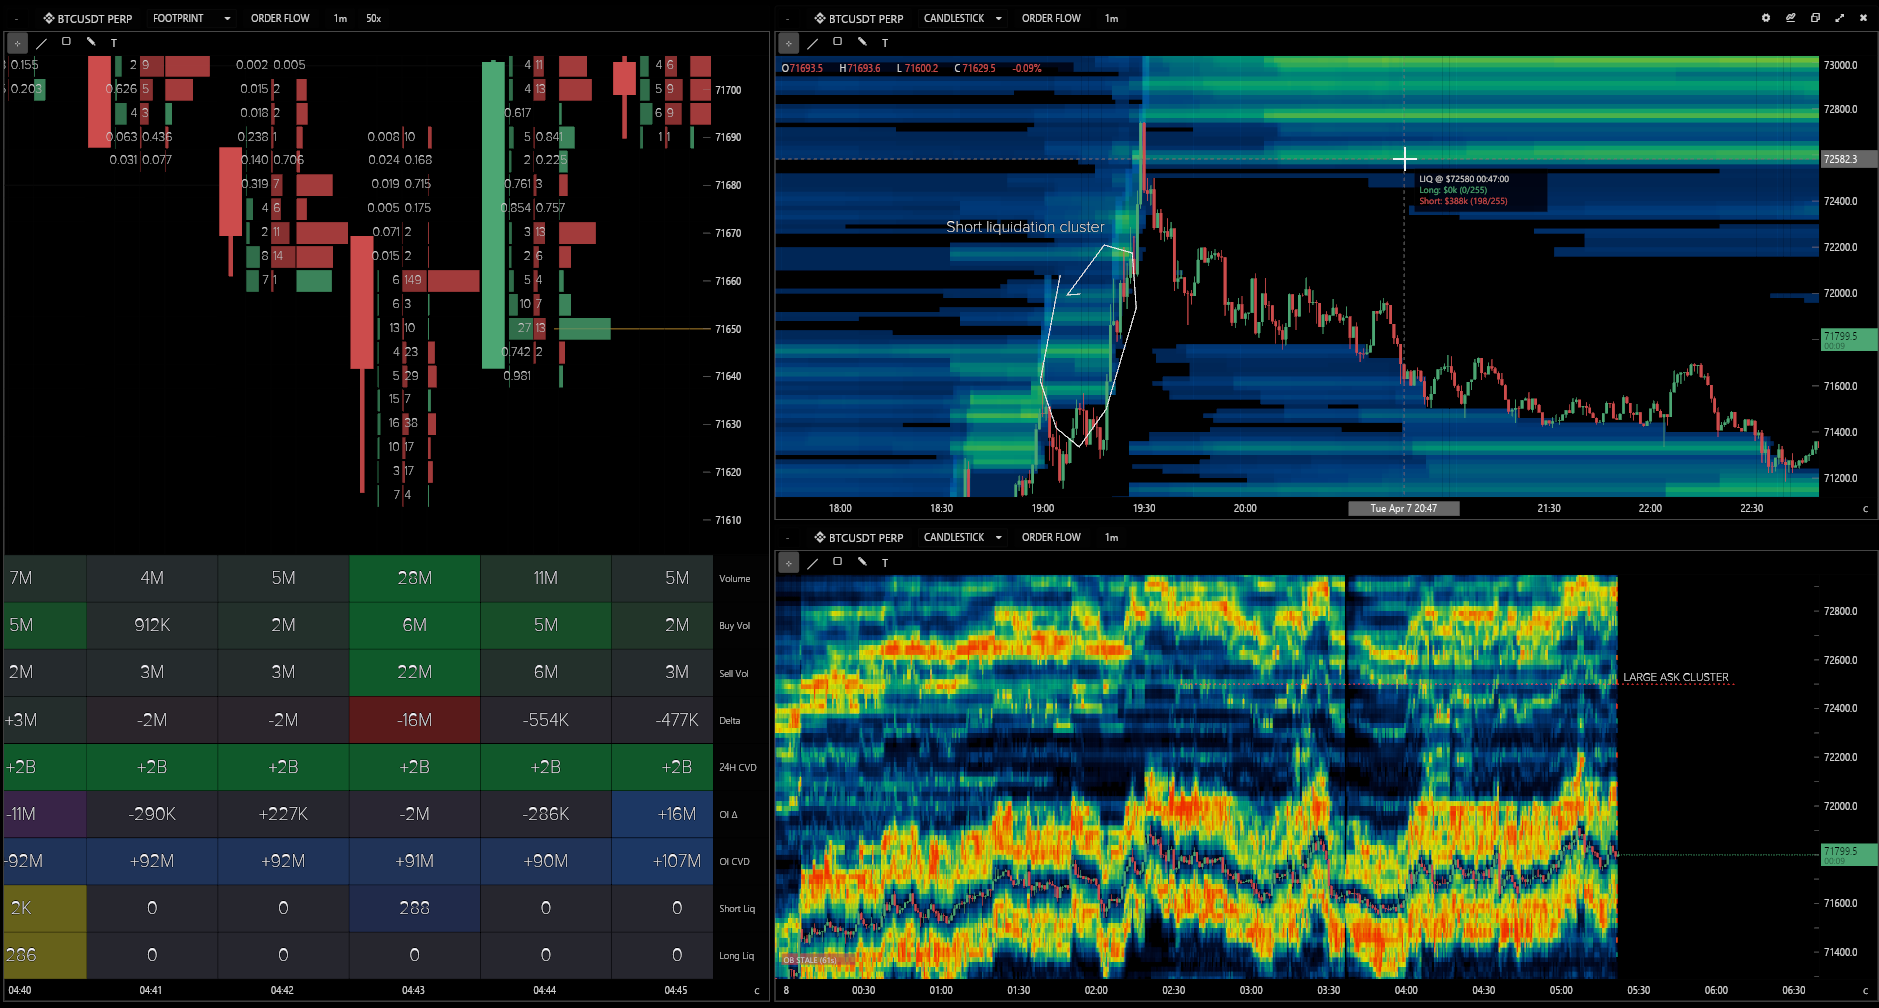
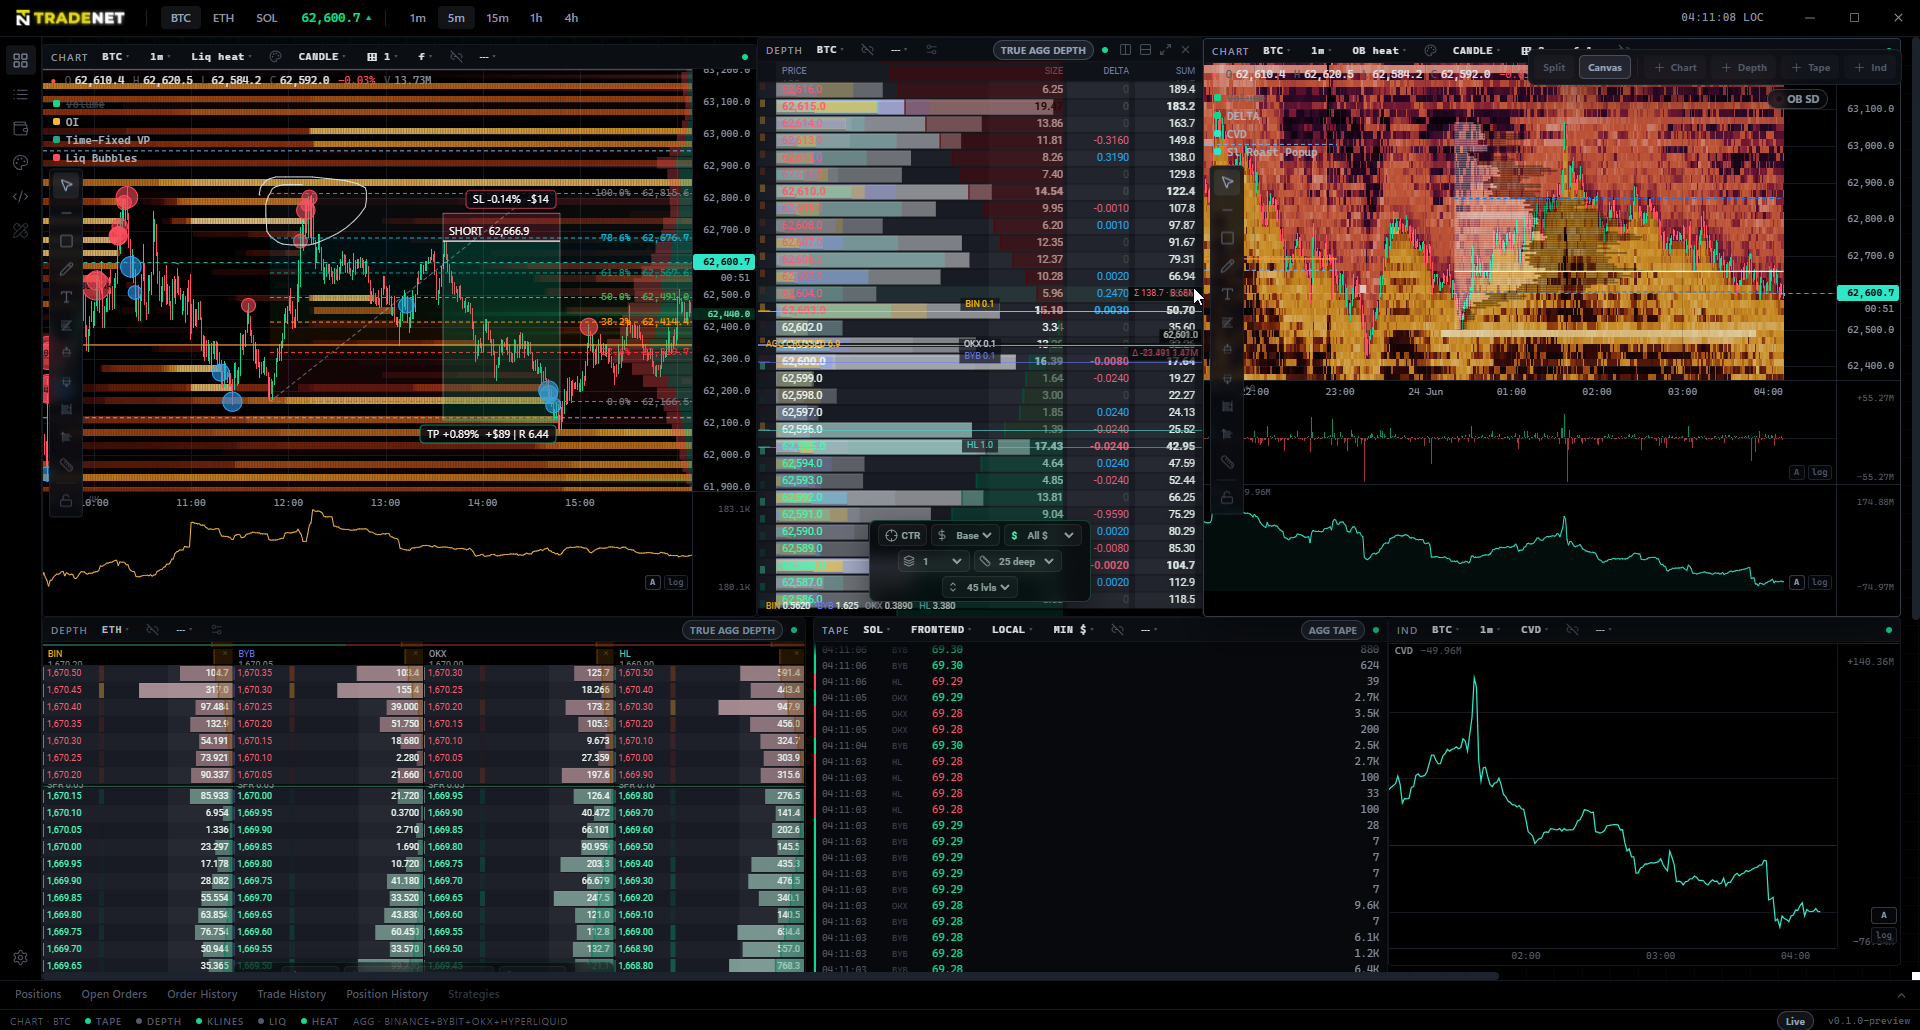
Refresh terminal hero media

diff --git a/src/components/pages/home/HeroSection.jsx b/src/components/pages/home/HeroSection.jsx
@@ -2,19 +2,19 @@ import { useNavigate } from 'react-router-dom'
 import { motion } from 'framer-motion'
 import { ArrowRight } from 'lucide-react'
 import ScrollIndicator from '@/components/common/ScrollIndicator'
-import LiquidationHeatmap from '@/components/common/LiquidationHeatmap'
 
 const stats = [
-  { value: 'Multi',      label: 'Exchange'           },
-  { value: '3,000+',     label: 'Symbols'            },
-  { value: 'Real-Time',  label: 'Prediction'        },
-  { value: 'Tauri',      label: 'Desktop'           },
+  { value: 'Multi',     label: 'Exchange' },
+  { value: '3,000+',    label: 'Symbols' },
+  { value: 'Real-Time', label: 'Prediction' },
+  { value: 'Tauri',     label: 'Desktop' },
 ]
 
 const fadeUp = {
-  hidden:  { opacity: 0, y: 24 },
+  hidden: { opacity: 0, y: 24 },
   visible: (i = 0) => ({
-    opacity: 1, y: 0,
+    opacity: 1,
+    y: 0,
     transition: { delay: i * 0.1, duration: 0.65, ease: [0.22, 1, 0.36, 1] },
   }),
 }
@@ -28,40 +28,47 @@ export default function HeroSection() {
 
   return (
     <section
-      className="relative min-h-screen flex flex-col bg-black overflow-hidden"
+      className="relative min-h-[94vh] flex flex-col bg-black overflow-hidden border-b border-white/[0.04]"
       style={{ isolation: 'isolate' }}
     >
-      {/* ── Liquidation heatmap background ── */}
-      <LiquidationHeatmap />
+      <img
+        src="/herogif.gif"
+        alt="TradeNet Quantum Terminal live orderflow workspace"
+        className="absolute inset-0 h-full w-full object-cover object-center"
+        fetchPriority="high"
+      />
 
-      {/* ── Gradient overlays for text legibility ── */}
       <div
         className="absolute inset-0 hidden md:block pointer-events-none"
         style={{
           zIndex: 1,
           background:
-            'linear-gradient(to right, rgba(0,0,0,0.95) 0%, rgba(0,0,0,0.85) 30%, rgba(0,0,0,0.3) 55%, rgba(0,0,0,0.05) 75%)',
+            'linear-gradient(90deg, rgba(0,0,0,0.98) 0%, rgba(0,0,0,0.9) 34%, rgba(0,0,0,0.42) 62%, rgba(0,0,0,0.18) 100%)',
         }}
       />
       <div
         className="absolute inset-0 md:hidden pointer-events-none"
-        style={{ zIndex: 1, background: 'rgba(0,0,0,0.6)' }}
+        style={{ zIndex: 1, background: 'rgba(0,0,0,0.76)' }}
       />
-      {/* Bottom fade into next section */}
+      <div
+        className="absolute inset-0 pointer-events-none"
+        style={{
+          zIndex: 1,
+          background:
+            'linear-gradient(to bottom, rgba(0,0,0,0.7) 0%, transparent 24%, transparent 64%, rgba(0,0,0,0.96) 100%)',
+        }}
+      />
       <div
         className="absolute bottom-0 inset-x-0 h-40 bg-gradient-to-t from-black to-transparent pointer-events-none"
         style={{ zIndex: 1 }}
       />
 
-      {/* ── Content — left column, pointer-events-none wrapper ── */}
       <div
         className="relative flex flex-col flex-1 justify-center pt-24 pb-20"
         style={{ zIndex: 2, pointerEvents: 'none' }}
       >
         <div className="section-container w-full">
-          <div className="w-full md:max-w-[520px] lg:max-w-[540px] xl:max-w-[580px] space-y-7">
-
-            {/* Eyebrow */}
+          <div className="w-full md:max-w-[540px] lg:max-w-[580px] xl:max-w-[610px] space-y-7">
             <motion.div variants={fadeUp} custom={0} initial="hidden" animate="visible">
               <span className="eyebrow-gold">
                 <span className="w-1.5 h-1.5 rounded-full bg-[#c9a84c]" />
@@ -69,7 +76,6 @@ export default function HeroSection() {
               </span>
             </motion.div>
 
-            {/* Headline */}
             <motion.div
               className="space-y-1"
               variants={fadeUp}
@@ -77,21 +83,20 @@ export default function HeroSection() {
               initial="hidden"
               animate="visible"
             >
-              <h1 className="text-[clamp(40px,5.5vw,72px)] font-black leading-[1.01] tracking-[-0.04em] text-[#FAFAFA]">
+              <h1 className="text-[clamp(40px,5.5vw,72px)] font-black leading-[1.01] text-[#FAFAFA]">
                 See What the Market
               </h1>
-              <h1 className="text-[clamp(40px,5.5vw,72px)] font-black leading-[1.01] tracking-[-0.04em] gradient-text-gold">
+              <h1 className="text-[clamp(40px,5.5vw,72px)] font-black leading-[1.01] gradient-text-gold">
                 Is About to Do.
               </h1>
             </motion.div>
 
-            {/* Subheadline */}
             <motion.p
               variants={fadeUp}
               custom={2}
               initial="hidden"
               animate="visible"
-              className="text-[17px] text-[#A1A1AA] leading-[1.75] max-w-[440px]"
+              className="text-[17px] text-[#D4D4D8] leading-[1.75] max-w-[470px]"
             >
               TradeNet Terminal delivers real-time liquidation prediction,
               aggregated order flow, and multi-exchange derivatives analytics
@@ -99,7 +104,6 @@ export default function HeroSection() {
               Built for traders who trade differently.
             </motion.p>
 
-            {/* CTAs — pointer-events-auto */}
             <motion.div
               variants={fadeUp}
               custom={3}
@@ -123,7 +127,6 @@ export default function HeroSection() {
               </button>
             </motion.div>
 
-            {/* Stats row */}
             <motion.div
               variants={fadeUp}
               custom={4}
@@ -136,17 +139,15 @@ export default function HeroSection() {
                   key={label}
                   className="flex flex-col items-center justify-center gap-1 py-4 px-2 bg-black/80 backdrop-blur-sm"
                 >
-                  <span className="text-base font-black tracking-tight gradient-text-gold text-center leading-tight">{value}</span>
+                  <span className="text-base font-black gradient-text-gold text-center leading-tight">{value}</span>
                   <span className="text-[10px] text-[#71717A] text-center leading-tight">{label}</span>
                 </div>
               ))}
             </motion.div>
-
           </div>
         </div>
       </div>
 
-      {/* Scroll indicator */}
       <div
         className="relative flex justify-center pb-6"
         style={{ zIndex: 2, pointerEvents: 'auto' }}

diff --git a/src/components/pages/home/TerminalTeaserSection.jsx b/src/components/pages/home/TerminalTeaserSection.jsx
@@ -88,28 +88,44 @@ export default function TerminalTeaserSection() {
           </button>
         </motion.div>
 
-        <div className="grid grid-cols-1 lg:grid-cols-[1.4fr_1fr] gap-4">
+        <div className="grid grid-cols-1 lg:grid-cols-[1.45fr_0.95fr] gap-4 items-stretch">
           <motion.div
             variants={fadeUp}
             custom={1}
             initial="hidden"
             animate={inView ? 'visible' : 'hidden'}
-            className="lg:row-span-2"
+            className="h-full"
           >
             <img
               src="/hero.png"
-              alt="TradeNet Terminal"
-              className="w-full h-full min-h-[240px] object-cover rounded-[20px] border border-white/[0.07]"
+              alt="TradeNet Terminal multi-panel workspace"
+              className="w-full h-full min-h-[300px] object-cover rounded-[20px] border border-white/[0.07]"
+              loading="lazy"
             />
           </motion.div>
 
-          <div className="grid grid-cols-1 sm:grid-cols-2 gap-4">
+          <div className="grid grid-cols-1 gap-4">
+            <motion.div
+              variants={fadeUp}
+              custom={2}
+              initial="hidden"
+              animate={inView ? 'visible' : 'hidden'}
+            >
+              <img
+                src="/hero2.png"
+                alt="TradeNet Terminal liquidation heatmap and footprint chart"
+                className="w-full aspect-[16/9] object-cover rounded-[20px] border border-white/[0.07]"
+                loading="lazy"
+              />
+            </motion.div>
+
+            <div className="grid grid-cols-1 sm:grid-cols-2 lg:grid-cols-1 xl:grid-cols-2 gap-4">
             {highlights.map(({ icon: Icon, title, body, accent, bg, border }, i) => (
               <motion.div
                 key={title}
                 className="bento-card p-5 flex flex-col gap-3"
                 variants={fadeUp}
-                custom={i + 2}
+                custom={i + 3}
                 initial="hidden"
                 animate={inView ? 'visible' : 'hidden'}
               >
@@ -125,6 +141,7 @@ export default function TerminalTeaserSection() {
                 </div>
               </motion.div>
             ))}
+            </div>
           </div>
         </div>
 

diff --git a/src/pages/TerminalPage.jsx b/src/pages/TerminalPage.jsx
@@ -5,7 +5,6 @@ import {
 } from 'lucide-react'
 import AuroraBackground from '@/components/common/AuroraBackground'
 import WaitlistForm from '@/components/common/WaitlistForm'
-import ImagePlaceholder from '@/components/common/ImagePlaceholder'
 
 // ─── Animation helpers ────────────────────────────────────────────────────────
 const fadeUp = {
@@ -66,6 +65,7 @@ const features = [
       'Liquidation data per candle',
     ],
     placeholder: 'Footprint Chart',
+    imageSrc: '/hero2.png',
     reverse: false,
   },
   {
@@ -79,6 +79,7 @@ const features = [
       'Switch between per-exchange and aggregated view instantly',
     ],
     placeholder: 'Aggregated Orderflow',
+    imageSrc: '/hero.png',
     reverse: true,
   },
   {
@@ -92,6 +93,7 @@ const features = [
       'Configurable minimum notional filter',
     ],
     placeholder: 'Liquidation Heatmap',
+    imageSrc: '/hero.png',
     reverse: false,
   },
   {
@@ -105,6 +107,7 @@ const features = [
       'Grouped price levels and configurable tick size',
     ],
     placeholder: 'Orderbook Heatmap',
+    imageSrc: '/hero2.png',
     reverse: true,
   },
   {
@@ -118,6 +121,7 @@ const features = [
       'Named layouts for save, load, clone, and restore',
     ],
     placeholder: 'Workspace Layout',
+    imageSrc: '/hero.png',
     reverse: false,
   },
 ]
@@ -189,7 +193,7 @@ function ValueProps() {
 function FeatureRow({ feature, index }) {
   const ref    = useRef(null)
   const inView = useInView(ref, { once: true, margin: '-80px' })
-  const { eyebrow, title, body, bullets, placeholder, reverse } = feature
+  const { eyebrow, title, body, bullets, placeholder, imageSrc, reverse } = feature
 
   return (
     <section
@@ -227,9 +231,10 @@ function FeatureRow({ feature, index }) {
             transition={{ duration: 0.65, delay: 0.1, ease: [0.22, 1, 0.36, 1] }}
           >
             <img
-              src="/hero.png"
+              src={imageSrc}
               alt={placeholder}
               className="w-full rounded-[20px] border border-white/[0.07] object-cover"
+              loading="lazy"
               style={{ aspectRatio: '16/9' }}
             />
           </motion.div>
@@ -445,9 +450,10 @@ export default function TerminalPage() {
               transition={{ delay: 0.3, duration: 0.7, ease: [0.22, 1, 0.36, 1] }}
             >
               <img
-                src="/hero.png"
-                alt="TradeNet Terminal"
+                src="/hero2.png"
+                alt="TradeNet Terminal liquidation heatmap and footprint workspace"
                 className="w-full rounded-[20px] border border-white/[0.07] shadow-2xl object-cover"
+                loading="eager"
                 style={{ aspectRatio: '16/9' }}
               />
             </motion.div>